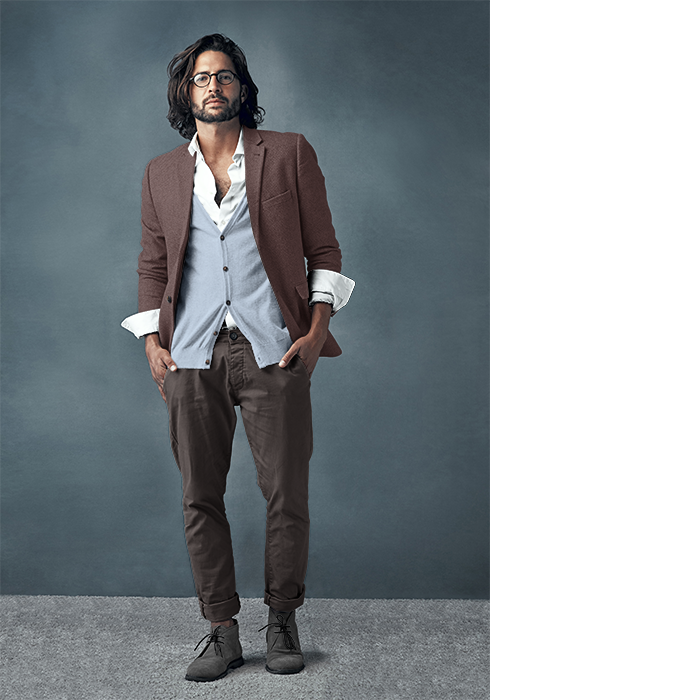
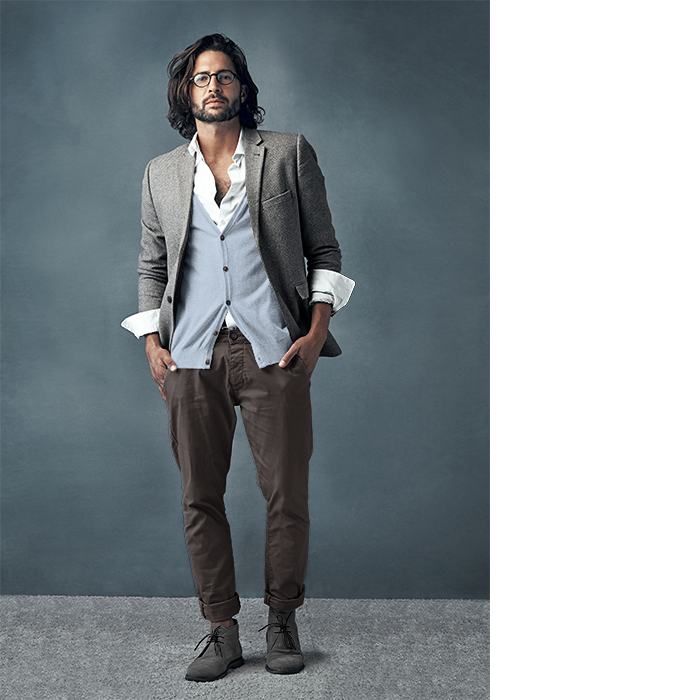
project refinements

Changed region(s): [[0.33, 0.18, 0.48, 0.48], [0.18, 0.21, 0.3, 0.51], [0.45, 0.48, 0.48, 0.51]]

diff --git a/index.html b/index.html
@@ -45,17 +45,12 @@
 
 
         <main class="container-fluid">
-            <div class="row">       
-               
-                <div class="col-md-4 col-md-offset-2">
-                    <div class="row">
-                        <div class="col-12">
-                            <img id="product" src="public/images/products/sample.png" />
-                        </div>
-                    </div>
+            <div class="row">                      
+                <div class="col-md-5 col-md-offset-2 col-sm-12 product-view">
+                    <img id="product" src="public/images/products/sample.png" />
                 </div>
                 
-                <div class="col-md-4">
+                <div class="col-md-4 col-sm-12 customization-view">
                     <img id="love" class="favorite-heart" src="public/images/love1.png">
                     <h2>Men's Casual Clothing</h2>
                     <br>
@@ -68,7 +63,7 @@
                     <div class="tab-panel">
                         <ul class="nav nav-tabs flex-container">
                             <li class="active">
-                                <a href="#jacket">Jacket</a>
+                                <a href="#jacket">Jackets</a>
                             </li>
                             <li>
                                 <a href="#sweater">Sweater</a>
@@ -90,17 +85,21 @@
                             <div id="jacket" class="tab-pane fade in active">
                                 <br>
                                 <div class="options-container">
-                                    <div data-target="o6" data-color="1" class="item-color-option jacket-blue">
+
+                                    <div data-target="o6" data-color="4" class="item-color-option active">
+                                        <img src="public/images/fabric/jacket/Light-Gray.png">
+                                    </div>
+                                                                        
+                                    <!-- hide brown for now -->
+                                    <!-- <div data-target="o6" data-color="2" class="item-color-option jacket-brown"> </div> -->
+                                    
+                                    <div data-target="o6" data-color="3" class="item-color-option">
+                                        <img src="public/images/fabric/jacket/Gray.png">
                                     </div>
                                     
-                                    <div data-target="o6" data-color="2" class="item-color-option jacket-brown active">                                 
+                                    <div data-target="o6" data-color="1" class="item-color-option">
+                                        <img src="public/images/fabric/jacket/Blue.png">
                                     </div>
-                                    
-                                    <div data-target="o6" data-color="3" class="item-color-option jacket-gray">
-                                    </div>
-                                    
-                                    <div data-target="o6" data-color="4" class="item-color-option jacket-light-gray">
-                                    </div>                                     
                                 </div>
                             </div>
 
@@ -108,13 +107,18 @@
                             <div id="sweater" class="tab-pane fade">
                                 <br>
                                 <div class="options-container">
-                                    <div data-target="o5" data-color="1" class="item-color-option sweater-blue active"></div>
-
-                                    <div data-target="o5" data-color="2" class="item-color-option sweater-green"></div>
-
-                                    <div data-target="o5" data-color="3" class="item-color-option sweater-red"></div>
-
-                                    <div data-target="o5" data-color="4" class="item-color-option sweater-off-white"></div>
+                                    <div data-target="o5" data-color="4" class="item-color-option">
+                                            <img src="public/images/fabric/sweater/Off-White.png">
+                                    </div>
+                            
+                                    <div data-target="o5" data-color="2" class="item-color-option">
+                                            <img src="public/images/fabric/sweater/Green.png">
+                                    </div>
+                            
+                                    <!-- <div data-target="o5" data-color="3" class="item-color-option sweater-red"></div> -->
+                                    <div data-target="o5" data-color="1" class="item-color-option active">
+                                        <img src="public/images/fabric/sweater/Blue.png">
+                                    </div>
                                 </div>
                             </div>
 
@@ -122,13 +126,15 @@
                             <div id="shirt" class="tab-pane fade">
                                 <br>
                                 <div class="options-container"> 
-                                    <div data-target="o4" data-color="1" class="item-color-option shirt-blue"></div>
+                                    <!-- <div data-target="o4" data-color="1" class="item-color-option shirt-blue"></div>
 
                                     <div data-target="o4" data-color="3" class="item-color-option shirt-pink"></div>
 
-                                    <div data-target="o4" data-color="2" class="item-color-option shirt-gray"></div>
+                                    <div data-target="o4" data-color="2" class="item-color-option shirt-gray"></div> -->
 
-                                    <div data-target="o4" data-color="4" class="item-color-option shirt-white active"></div>
+                                    <div data-target="o4" data-color="4" class="item-color-option active">
+                                        <img src="public/images/fabric/shirt/White.png">                                            
+                                    </div>
                                 </div>
                             </div>
 
@@ -137,13 +143,21 @@
                             <div id="pants" class="tab-pane fade">
                                 <br>
                                 <div class="options-container">
-                                    <div data-target="o3" data-color="1" class="item-color-option pants-blue"></div>
-
-                                    <div data-target="o3" data-color="2" class="item-color-option pants-brown active"></div>
-
-                                    <div data-target="o3" data-color="3" class="item-color-option pants-gray"></div>
-
-                                    <div data-target="o3" data-color="4" class="item-color-option pants-khaki"></div>
+                                    <div data-target="o3" data-color="4" class="item-color-option">
+                                        <img src="public/images/fabric/pants/Khaki.png">
+                                    </div>
+                                    
+                                    <div data-target="o3" data-color="2" class="item-color-option active">
+                                        <img src="public/images/fabric/pants/Brown.png">
+                                    </div>
+                                    
+                                    <div data-target="o3" data-color="3" class="item-color-option">
+                                        <img src="public/images/fabric/pants/Gray.png">
+                                    </div>
+                                    
+                                    <div data-target="o3" data-color="1" class="item-color-option">
+                                        <img src="public/images/fabric/pants/Blue.png">
+                                    </div>                                    
                                 </div>
                             </div>
 
@@ -151,15 +165,21 @@
                             <div id="shoes" class="tab-pane fade">                                
                                 <br>
                                 <div class="options-container">
-
-                                    <div data-target="o1" data-color="1" class="item-color-option shoes-blue"></div>
-
-                                    <div data-target="o1" data-color="2" class="item-color-option shoes-brown"></div>
-
-                                    <div data-target="o1" data-color="3" class="item-color-option shoes-gray active"></div>
-
-                                    <div data-target="o1" data-color="4" class="item-color-option shoes-black"></div>
-
+                                    <div data-target="o1" data-color="4" class="item-color-option">
+                                        <img src="public/images/fabric/shoes/Black.png">
+                                    </div>
+                                
+                                    <div data-target="o1" data-color="2" class="item-color-option">
+                                        <img src="public/images/fabric/shoes/brown.png">                                
+                                    </div>
+                                
+                                    <div data-target="o1" data-color="3" class="item-color-option active">
+                                        <img src="public/images/fabric/shoes/Gray.png">
+                                    </div>
+                                
+                                    <div data-target="o1" data-color="1" class="item-color-option">
+                                        <img src="public/images/fabric/shoes/Blue.png"> 
+                                    </div>                                
                                 </div>
                             </div>
 

diff --git a/public/css/style.css b/public/css/style.css
@@ -28,6 +28,7 @@ HEADER STYLES
 *******************/
 #header {
     height: 88px;
+    margin-bottom:10px;
 }
 #storeLogo {
     float: left;
@@ -56,10 +57,6 @@ HEADER STYLES
 /****************** 
 MAIN CONTENT STYLES 
 *******************/
-img#product {
-    height: calc(100vh - 90px);  /* 88px is header height */  
-    width: auto;
-}
 
 .description {
     font-size: 12px;
@@ -81,6 +78,10 @@ img#product {
 .nav-tabs>li.active>a, .nav-tabs>li.active>a:focus, .nav-tabs>li.active>a:hover {
     background-color: #f6f6f6;
     border: 0;
+}
+
+.tab-panel .nav li {
+    text-align: center;
 }
 
 /* marker for selected tab */
@@ -110,20 +111,28 @@ img#product {
 /**** COLOR OPTIONS ****/
 
 .item-color-option {
+    
     display: inline-block;
-    height: 50px;
-    width: 50px;    
-   
-    -moz-border-radius: 50px;
-    -webkit-border-radius: 50px;
-    border-radius: 50px;
+    max-height: 50px;
+    max-width: 50px;  
     margin: 5px;
     cursor: pointer;
     border: 2px solid #fff;
+    -moz-border-radius: 50px;
+    -webkit-border-radius: 50px;
+    border-radius: 50px;
+}
+
+.item-color-option img {  
+    width: 100%;
+    height: auto;
+    -moz-border-radius: 50px;
+    -webkit-border-radius: 50px;
+    border-radius: 50px;
 }
 
 .item-color-option.active {
-    border: 3px solid #333;
+    border-color: #333;
 }
 
 .jacket-blue {
@@ -171,7 +180,7 @@ img#product {
 }
 
 .shirt-white {
-    background-color: #ced8d9;
+    background-color: #fff;
 }
 
 .pants-blue {
@@ -204,4 +213,17 @@ img#product {
 
 .shoes-black {
     background-color: #191919;
+}
+
+/* rules applicable for current type of images provided. Update code if new version of images no longer work with code*/
+img#product {
+    max-width: 100%;
+    width: auto;
+    height: auto;
+    max-height: 100%;    
+}
+
+@media (min-width: 992px) {
+ 
+    
 }

diff --git a/public/js/casualClothing.js b/public/js/casualClothing.js
@@ -65,7 +65,6 @@ $(document).ready(function () {
                 return;
             }
             
-            // $('.nav-list li.active').removeClass('active');
             $(".item-color-option[data-target='o4']").removeClass('active');
 
             $(this).addClass('active');
